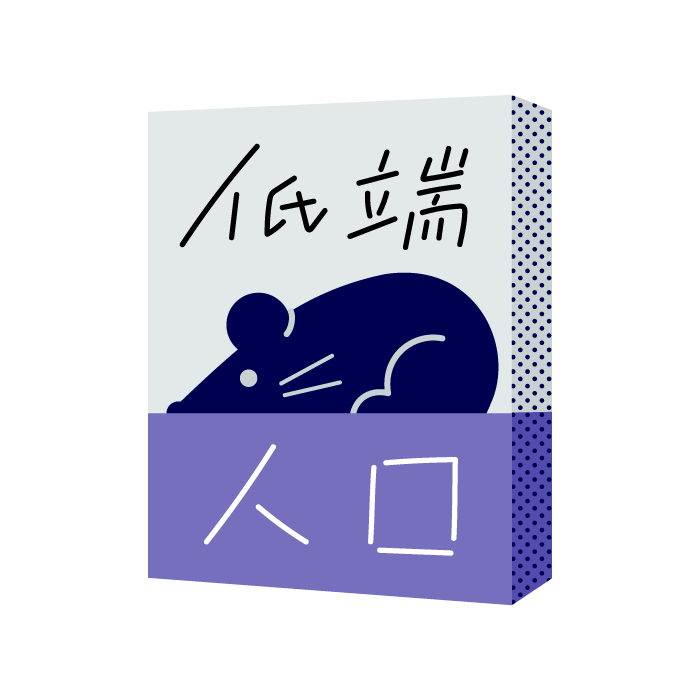
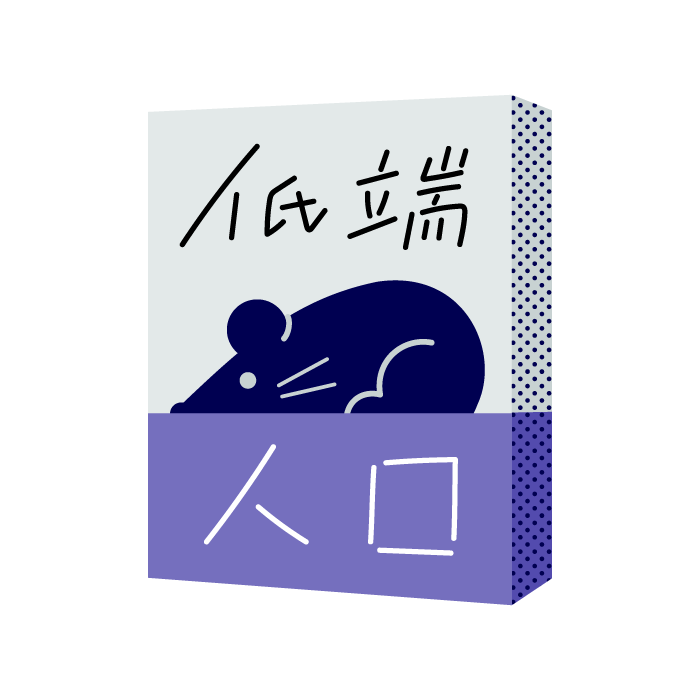
書、鎖hover

diff --git a/index.html b/index.html
@@ -116,7 +116,7 @@
 
     <!-- 首頁產品區 -->
     <section id="homeProduct">
-        <h3 class="hashtag normal-hover"># 籠中生存必備品</h3>
+        <h3 class="hashtag normal-hover"># 生存必備品</h3>
         <div class="container">
             <div class="row">
                 <div class="product-box column">
@@ -247,7 +247,7 @@
                                 <img src="./img/img_products_book.png" alt="書" />
                             </div>
                             <div class="product-hover">
-                                <img src="./img/img_products_book.png" alt="書" />
+                                <img src="./img/img_products_book_hover.png" alt="書" />
                             </div>
                         </div>
                         <h4 class="chapter">沒Wifi只能看書《低端人口》</h4>

diff --git a/products/clay.html b/products/clay.html
@@ -166,7 +166,7 @@
                                 <img src="../img/img_products_book.png" alt="書" />
                             </div>
                             <div class="product-hover">
-                                <img src="../img/img_products_book.png" alt="書" />
+                                <img src="../img/img_products_book_hover.png" alt="書" />
                             </div>
                         </div>
                         <h4 class="chapter">沒Wifi只能看書《低端人口》</h4>

diff --git a/products/heatDectector.html b/products/heatDectector.html
@@ -166,7 +166,7 @@
                                 <img src="../img/img_products_book.png" alt="書" />
                             </div>
                             <div class="product-hover">
-                                <img src="../img/img_products_book.png" alt="書" />
+                                <img src="../img/img_products_book_hover.png" alt="書" />
                             </div>
                         </div>
                         <h4 class="chapter">沒Wifi只能看書《低端人口》</h4>

diff --git a/products/insecticide.html b/products/insecticide.html
@@ -166,7 +166,7 @@
                                 <img src="../img/img_products_book.png" alt="書" />
                             </div>
                             <div class="product-hover">
-                                <img src="../img/img_products_book.png" alt="書" />
+                                <img src="../img/img_products_book_hover.png" alt="書" />
                             </div>
                         </div>
                         <h4 class="chapter">沒Wifi只能看書《低端人口》</h4>

diff --git a/products/lock.html b/products/lock.html
@@ -167,7 +167,7 @@
                                 <img src="../img/img_products_book.png" alt="書" />
                             </div>
                             <div class="product-hover">
-                                <img src="../img/img_products_book.png" alt="書" />
+                                <img src="../img/img_products_book_hover.png" alt="書" />
                             </div>
                         </div>
                         <h4 class="chapter">沒Wifi只能看書《低端人口》</h4>
